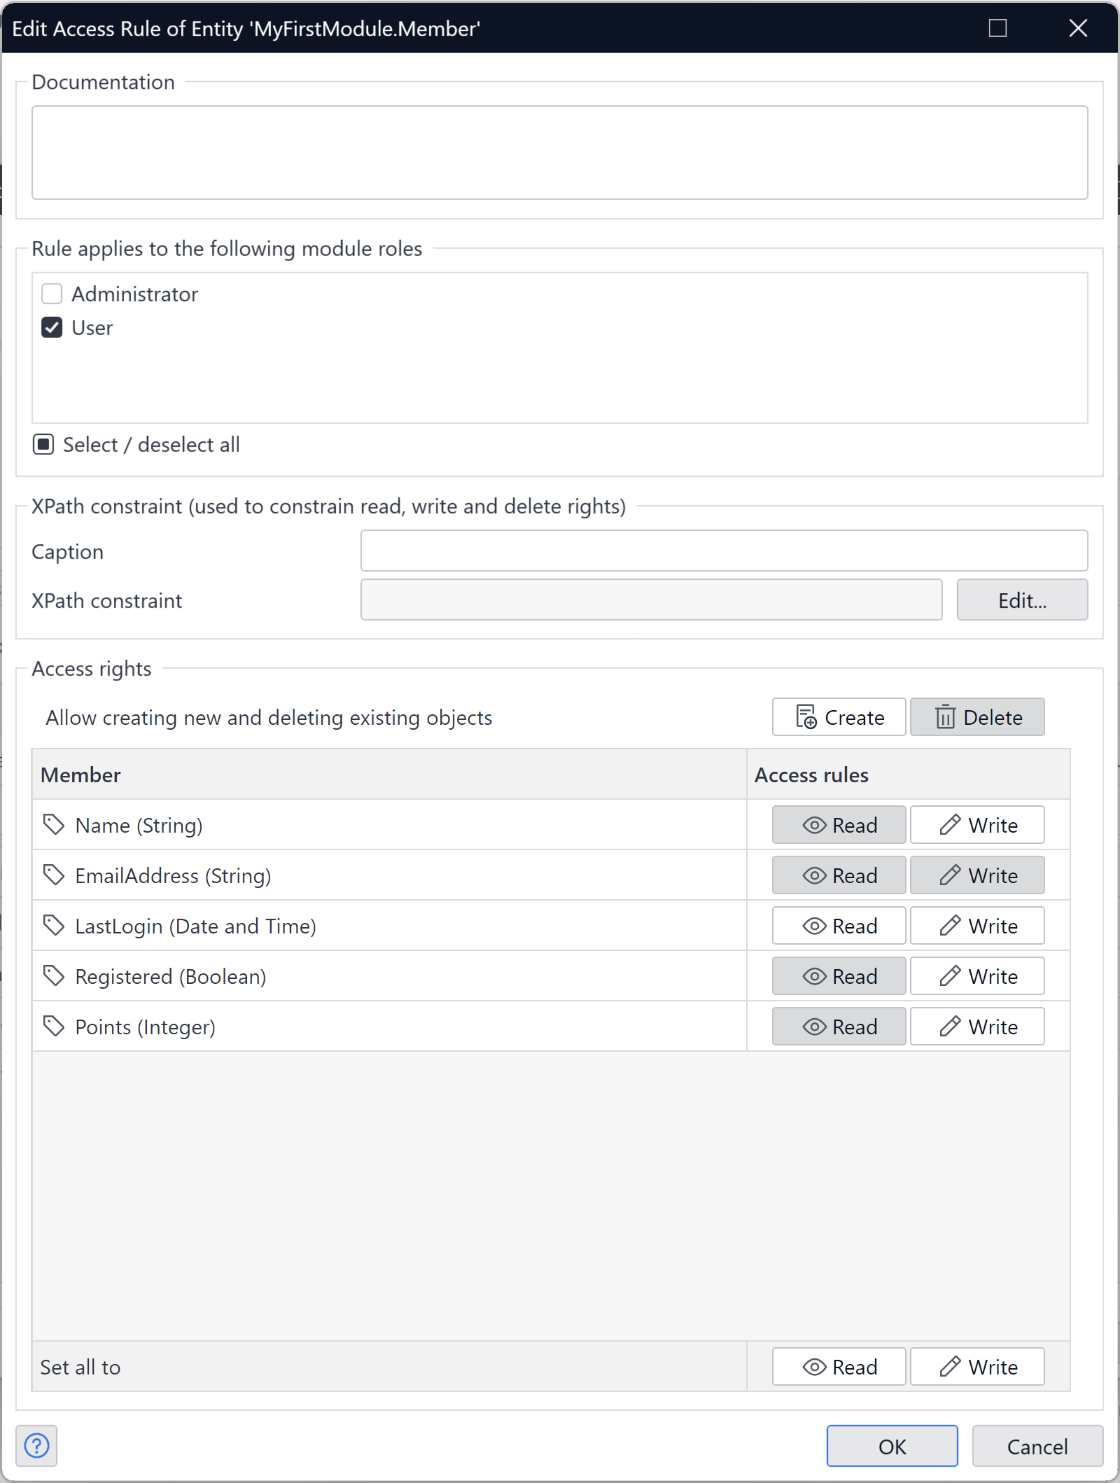
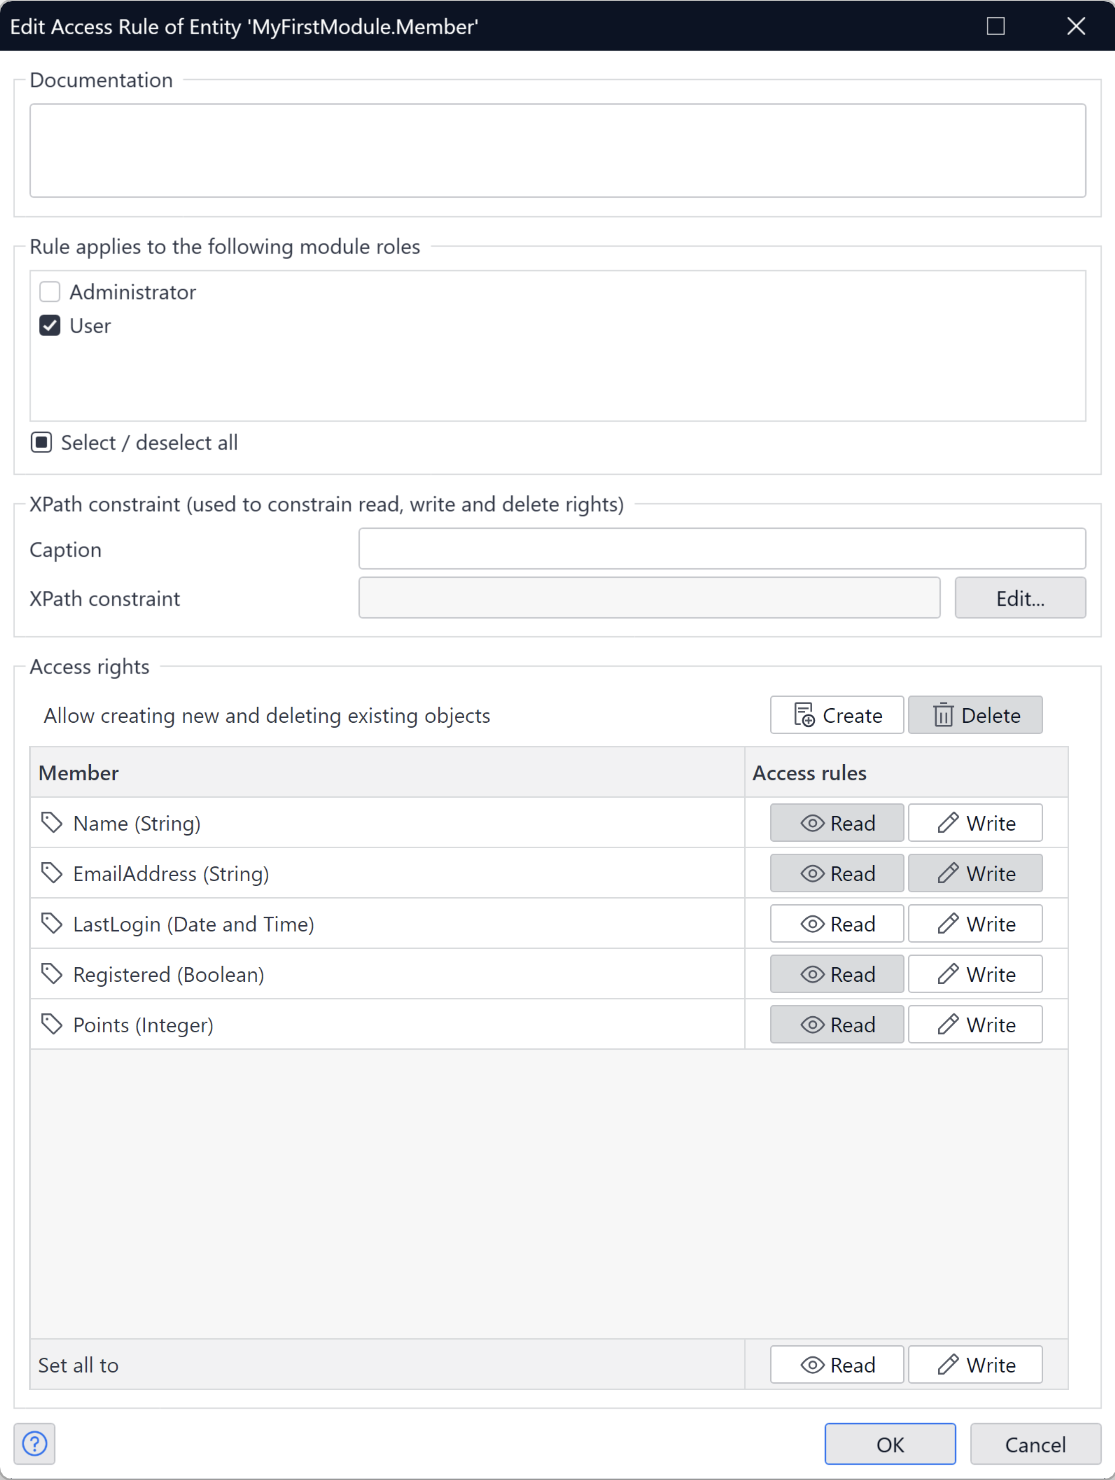
Fix typo, crop the screenshots better

diff --git a/content/en/docs/refguide/modeling/domain-model/entities/access-rules.md b/content/en/docs/refguide/modeling/domain-model/entities/access-rules.md
@@ -234,7 +234,7 @@ When an access rule has entity rights, this is shown using the **Create** and/or
 
 ### Attribute and Association Rights
 
-In the access rule, access to a specific member (attribute or association belonging to the entity) can be controlled. The access can be **None**, **Read** or **Read and Write**. When there is no access, no icon is display in the row of the member in the access rule column. If there is **Read** access, a **Read** icon is displayed. For **Read and Write** access, both the **Read** and the **Write** icon are displayed.
+In the access rule, access to a specific member (attribute or association belonging to the entity) can be controlled. The access can be **None**, **Read** or **Read and Write**. When there is no access, no icon is displayed in the row of the member in the access rule column. If there is **Read** access, a **Read** icon is displayed. For **Read and Write** access, both the **Read** and the **Write** icon are displayed.
 
 ### Creating or editing an access rule
 
